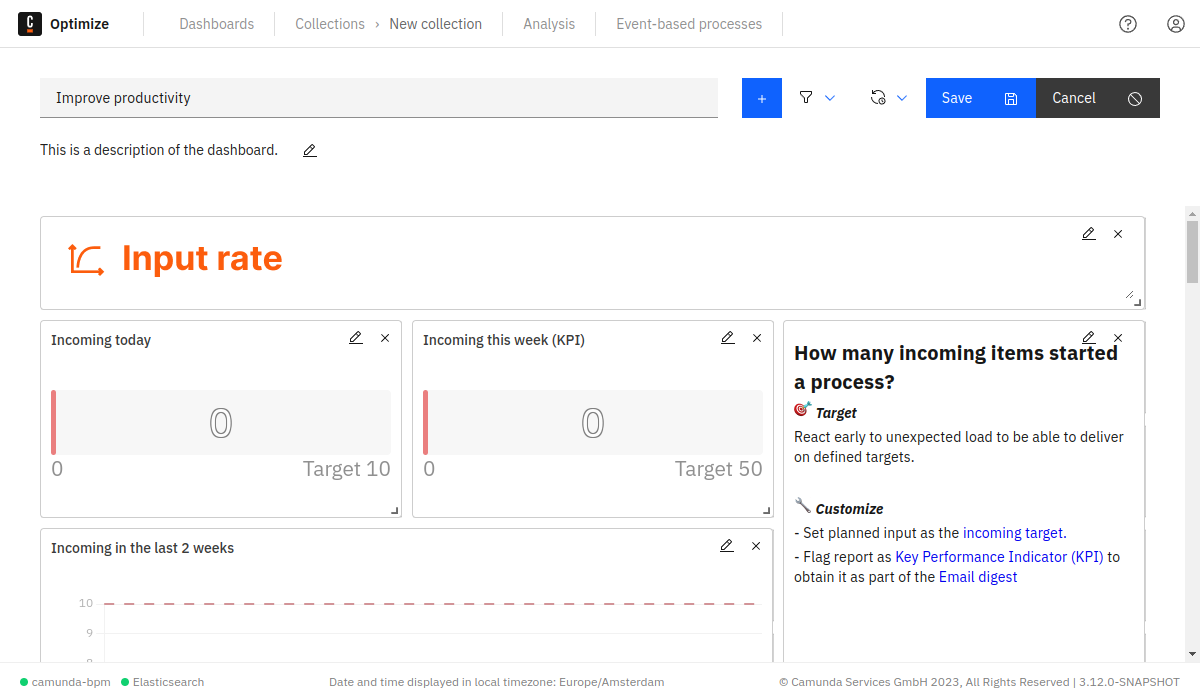
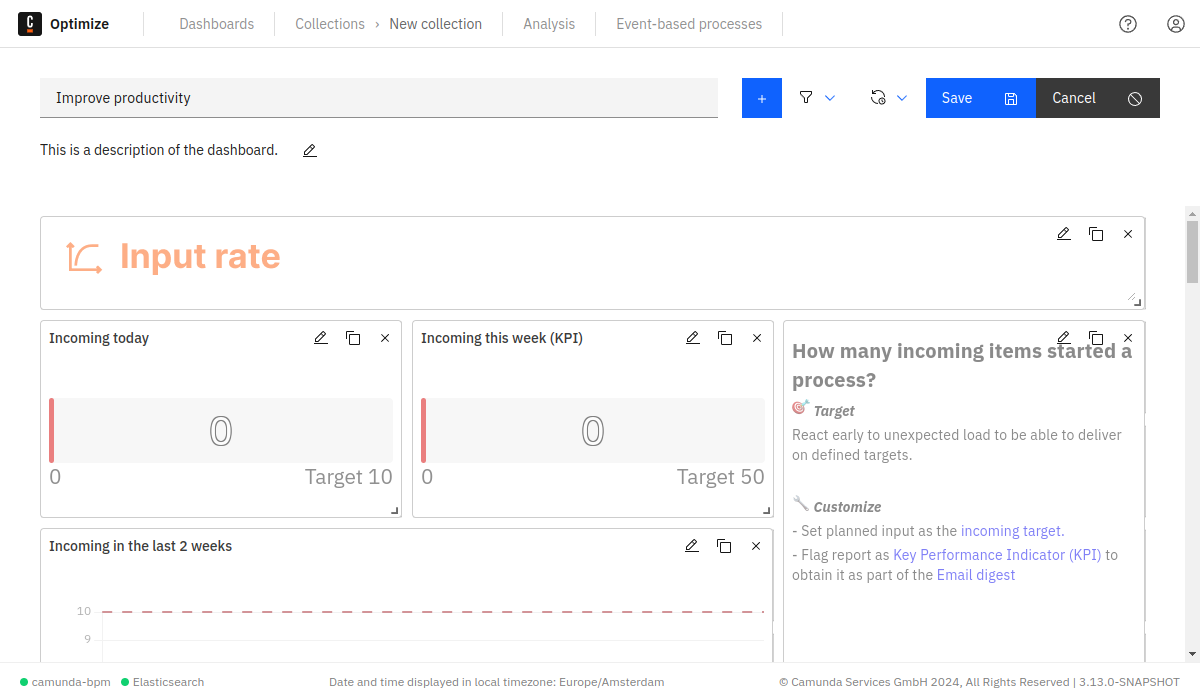
docs(optimize): add tile copying

diff --git a/optimize/components/userguide/edit-mode.md b/optimize/components/userguide/edit-mode.md
@@ -4,7 +4,7 @@ title: Edit mode
 description: "The edit mode allows you to configure the dashboard and adjust it to your needs."
 ---
 
-Configure and customize your dashboard in edit mode, performing operations such as renaming, modifying or removing descriptions, adding or removing tiles, saving changes, canceling applied changes, setting dashboard filters, and defining a default auto-refresh rate for periodic updates in [view mode](./view-mode.md).
+Configure and customize your dashboard in edit mode, performing operations such as renaming, modifying or removing descriptions, adding, editing, copying or removing tiles, saving changes, canceling applied changes, setting dashboard filters, and defining a default auto-refresh rate for periodic updates in [view mode](./view-mode.md).
 
 ![edit mode](./img/dashboard-dashboardEditActions.png)
 
@@ -34,7 +34,11 @@ In the **Add a Tile** modal, choose **Text** to access the text editor. This ena
 
 ![text editor](./img/dashboard-addAReportModal-textReport.png)
 
-### Placing tile on the dashboard
+## Copying, Editing, and Removing Tiles
+
+Each tile features a set of buttons in its top-right corner, providing you with options to edit and remove the tile. The 'Copy' button allows you to duplicate any tile, and the copied version can be conveniently placed anywhere on the dashboard. This duplicated tile is then customizable, enabling you to tailor it to your specific requirements.
+
+## Placing tile on the dashboard
 
 Move tiles within the dashboard by dragging them to your preferred location. Upon releasing the tile, it aligns with the nearest grid position. Resize tiles by dragging the handle in the lower right corner. Remove a tile by clicking the **X** button in the top right corner.
 
